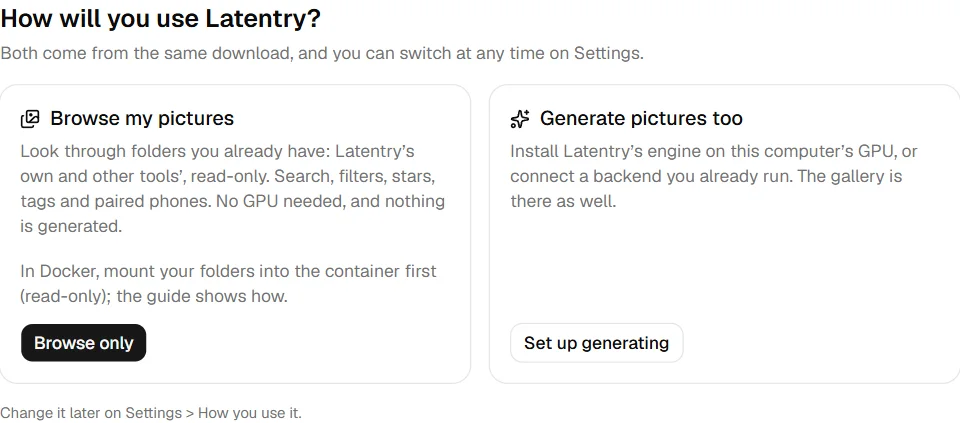
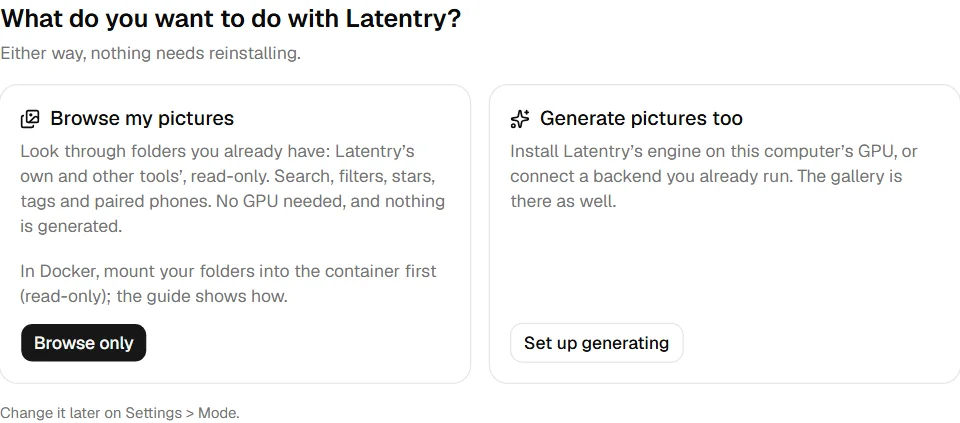
First-run question: clearer wording, a way back to browsing, and SETTINGS_EDIT=off
- The question reads "What do you want to do with Latentry?", and says
  that either answer needs no reinstall. The Settings section is "Mode"
  (ja: 利用モード) instead of "How you use it", which read like a guide.
- The setup help offers "Browse only instead" while no backend is set up,
  so choosing to generate first is not a dead end.
- With SETTINGS_EDIT=off the notice says that only LATENTRY_MODE can make
  Latentry browse-only, instead of pointing at an owner device.

Changed region(s): [[0.0, 0.0, 0.6875, 0.1537], [0.1875, 0.9527, 0.3125, 1.0]]

diff --git a/components/setup-notice.tsx b/components/setup-notice.tsx
@@ -15,56 +15,36 @@ GEN_TOKEN_SDXL=user:password
 GALLERY_SAVE_DIR=./output`
 
 /**
- * On a fresh install (no backend, and no mode chosen on Settings or by
- * LATENTRY_MODE), whether to ask how Latentry is used: `choose` when this
- * client may change settings, `askOwner` when it may not. Null otherwise:
- * then the notice is the usual setup help.
+ * What the notice offers besides the setup help (read on the server by the page):
+ *
+ * - On a fresh install (no mode chosen on Settings or by LATENTRY_MODE):
+ *   `choose` asks how Latentry is used, when this client may change settings;
+ *   `askOwner` says an owner device can choose; `readOnly` says no one can
+ *   (SETTINGS_EDIT=off: only LATENTRY_MODE sets it).
+ * - Once generating was chosen: `switch` offers browsing only instead, when
+ *   this client may change settings and LATENTRY_MODE does not decide.
+ * - Null: the setup help alone.
  */
-export type FirstRun = "choose" | "askOwner" | null
+export type FirstRun = "choose" | "askOwner" | "readOnly" | "switch" | null
 
 /** Shown instead of the form while there is no backend. */
 export function SetupNotice({ firstRun = null }: { firstRun?: FirstRun }) {
   const [chosen, setChosen] = useState(false)
   if (firstRun === "choose" && !chosen) return <FirstRunChoice onGenerate={() => setChosen(true)} />
-  return <GenerateSetup askOwner={firstRun === "askOwner"} />
-}
-
-/** The engine's setup first, then bringing your own backend. */
-function GenerateSetup({ askOwner }: { askOwner: boolean }) {
-  const t = useT()
   return (
-    <Card className="mx-auto max-w-2xl">
-      <CardHeader>
-        <CardTitle>{t("app.setupTitle")}</CardTitle>
-      </CardHeader>
-      <CardContent className="space-y-3 text-sm">
-        {askOwner && <p className="text-muted-foreground">{t("app.firstRun.askOwner")}</p>}
-        <p>{t("app.setupEngine")}</p>
-        <Button asChild>
-          <Link href="/setup">
-            <Cpu className="mr-1.5 h-4 w-4" />
-            {t("app.setupEngineButton")}
-          </Link>
-        </Button>
-        <p className="pt-2">{t("app.setupBody")}</p>
-        <pre className="overflow-x-auto rounded-md bg-muted p-3 font-mono text-xs">{EXAMPLE}</pre>
-        <p className="text-muted-foreground">{t("app.setupRestart")}</p>
-      </CardContent>
-    </Card>
+    <GenerateSetup
+      note={firstRun === "askOwner" || firstRun === "readOnly" ? firstRun : null}
+      offerBrowse={firstRun === "switch" || firstRun === "choose"}
+    />
   )
 }
 
-/**
- * Browse only, or generate too. Either answer is saved as the mode (Settings
- * > How you use it), so the question is asked once; browsing then goes on to
- * the gallery folders.
- */
-function FirstRunChoice({ onGenerate }: { onGenerate: () => void }) {
+/** Saves the mode; browsing only then goes on to the gallery folders. */
+function useSaveMode() {
   const t = useT()
   const router = useRouter()
   const [saving, setSaving] = useState(false)
-
-  async function choose(mode: "gallery" | "full") {
+  async function save(mode: "gallery" | "full"): Promise<boolean> {
     setSaving(true)
     try {
       const response = await fetch("/api/settings", {
@@ -77,11 +57,66 @@ function FirstRunChoice({ onGenerate }: { onGenerate: () => void }) {
         throw new Error(typeof data?.error === "string" ? t.server(data.error) : String(response.status))
       }
       if (mode === "gallery") router.push("/settings#gallery")
-      else onGenerate()
+      else setSaving(false)
+      return true
     } catch (error) {
       toast.error(t("app.firstRun.failed"), { description: error instanceof Error ? error.message : undefined })
       setSaving(false)
+      return false
     }
+  }
+  return { save, saving }
+}
+
+/**
+ * The engine's setup first, then bringing your own backend; below, when
+ * `offerBrowse`, the way to browsing only for whoever changes their mind.
+ */
+function GenerateSetup({ note, offerBrowse }: { note: "askOwner" | "readOnly" | null; offerBrowse: boolean }) {
+  const t = useT()
+  const { save, saving } = useSaveMode()
+  return (
+    <Card className="mx-auto max-w-2xl">
+      <CardHeader>
+        <CardTitle>{t("app.setupTitle")}</CardTitle>
+      </CardHeader>
+      <CardContent className="space-y-3 text-sm">
+        {note && <p className="text-muted-foreground">{t(`app.firstRun.${note}`)}</p>}
+        <p>{t("app.setupEngine")}</p>
+        <Button asChild>
+          <Link href="/setup">
+            <Cpu className="mr-1.5 h-4 w-4" />
+            {t("app.setupEngineButton")}
+          </Link>
+        </Button>
+        <p className="pt-2">{t("app.setupBody")}</p>
+        <pre className="overflow-x-auto rounded-md bg-muted p-3 font-mono text-xs">{EXAMPLE}</pre>
+        <p className="text-muted-foreground">{t("app.setupRestart")}</p>
+        {offerBrowse && (
+          <div className="flex flex-wrap items-center gap-x-3 gap-y-2 border-t pt-3">
+            <p className="text-muted-foreground">{t("app.firstRun.switchText")}</p>
+            <Button variant="outline" size="sm" onClick={() => void save("gallery")} disabled={saving}>
+              <Images className="mr-1.5 h-4 w-4" aria-hidden />
+              {t("app.firstRun.switchButton")}
+            </Button>
+          </div>
+        )}
+      </CardContent>
+    </Card>
+  )
+}
+
+/**
+ * Browse only, or generate too. Either answer is saved as the mode (Settings
+ * > Mode), so the question is asked once; browsing then goes on to
+ * the gallery folders.
+ */
+function FirstRunChoice({ onGenerate }: { onGenerate: () => void }) {
+  const t = useT()
+  const { save, saving } = useSaveMode()
+
+  async function choose(mode: "gallery" | "full") {
+    if ((await save(mode)) && mode === "full") onGenerate()
   }
 
   return (

diff --git a/e2e/first-run.spec.ts b/e2e/first-run.spec.ts
@@ -8,7 +8,7 @@ import { asFreshInstall } from './fresh-install'
 test('a fresh install asks how it is used; "Browse only" turns on gallery-only mode', async ({ page, request }) => {
   await asFreshInstall(request, async () => {
     await page.goto('/')
-    await expect(page.getByRole('heading', { name: 'How will you use Latentry?' })).toBeVisible()
+    await expect(page.getByRole('heading', { name: 'What do you want to do with Latentry?' })).toBeVisible()
     await page.getByRole('button', { name: 'Browse only' }).click()
 
     // On to the gallery folders, in gallery-only mode.
@@ -19,7 +19,7 @@ test('a fresh install asks how it is used; "Browse only" turns on gallery-only m
   })
 })
 
-test('"Set up generating" shows the setup help and is not asked again', async ({ page, request }) => {
+test('"Set up generating" shows the setup help, is not asked again, and can still turn to browsing only', async ({ page, request }) => {
   await asFreshInstall(request, async () => {
     await page.goto('/')
     await page.getByRole('button', { name: 'Set up generating' }).click()
@@ -30,7 +30,12 @@ test('"Set up generating" shows the setup help and is not asked again', async ({
     // Chosen: the next visit goes straight to the setup help.
     await page.reload()
     await expect(page.getByText('Get drawing')).toBeVisible()
-    await expect(page.getByRole('heading', { name: 'How will you use Latentry?' })).toHaveCount(0)
+    await expect(page.getByRole('heading', { name: 'What do you want to do with Latentry?' })).toHaveCount(0)
+
+    // Changed their mind: browsing only is still offered below the setup help.
+    await page.getByRole('button', { name: 'Browse only instead' }).click()
+    await expect(page).toHaveURL(/\/settings#gallery$/)
+    expect((await (await request.get('/api/settings')).json()).mode.chosen).toBe('gallery')
   })
 })
 

diff --git a/app/page.tsx b/app/page.tsx
@@ -2,14 +2,21 @@ import { headers } from "next/headers"
 import { redirect } from "next/navigation"
 import { AppHeader } from "@/components/app-header"
 import { GenerateClient } from "@/components/generate/generate-client"
-import { galleryOnly, modeChosen } from "@/lib/mode"
+import type { FirstRun } from "@/components/setup-notice"
+import { galleryOnly, modeChosen, modeFromEnv } from "@/lib/mode"
 import { editRefusal } from "@/lib/settings/access"
 
 export default async function Home() {
   // Gallery-only mode has no generate page: its home is the gallery.
   if (galleryOnly()) redirect("/gallery")
-  // Not chosen yet: the notice shown without a backend asks how Latentry is used.
-  const firstRun = modeChosen() ? null : editRefusal(await headers()) ? "askOwner" : "choose"
+  // What the notice shown without a backend offers (components/setup-notice.tsx):
+  // not chosen yet, it asks how Latentry is used, or tells a device that may not
+  // change settings who can; chosen, it offers browsing only instead, unless
+  // LATENTRY_MODE decides or this device may not change settings.
+  const refusal = editRefusal(await headers())
+  const firstRun: FirstRun = !modeChosen()
+    ? refusal === "off" ? "readOnly" : refusal ? "askOwner" : "choose"
+    : modeFromEnv() === null && !refusal ? "switch" : null
   return (
     <>
       <AppHeader />

diff --git a/docs/getting-started.md b/docs/getting-started.md
@@ -4,7 +4,7 @@ Latentry runs in Docker, with its settings, pictures, engine and models in
 one data volume. To install it without Docker, see
 [Without Docker](install/native.md).
 
-There are two ways to use it, from the same download:
+There are two ways to use it, with nothing to reinstall between them:
 
 - **[Browse your pictures](#browse-your-pictures)**: look through the
   folders you already have, Latentry's and other tools', read-only. No GPU
@@ -14,7 +14,7 @@ There are two ways to use it, from the same download:
   it.
 
 The first page asks which one, and you can switch at any time on
-**Settings > How you use it**. Starting and pairing are the same for both.
+**Settings > Mode**. Starting and pairing are the same for both.
 
 ## What you need
 
@@ -78,7 +78,7 @@ devices. When it ends, run the command again. See
 
 ## Browse your pictures
 
-On the first page, under **How will you use Latentry?**, choose **Browse
+On the first page, under **What do you want to do with Latentry?**, choose **Browse
 only**.
 
 ![The first-run question: browse your pictures, or generate pictures too](assets/manual-first-run.webp)
@@ -97,7 +97,9 @@ off, and so do their parts of Latentry's API; see
 ## Generate too
 
 On the first page, choose **Set up generating**. It shows how to install
-the engine or add a server you already run.
+the engine or add a server you already run. Changed your mind? Until a
+backend is set up, **Browse only instead** at the bottom of that page
+switches to browsing.
 
 ### Set up the engine
 

diff --git a/docs/guide/gallery-only.md b/docs/guide/gallery-only.md
@@ -6,7 +6,7 @@ and the backends are turned off, and Latentry closes the parts of its API
 that serve them, so they cannot be reached from another tab or device
 either. No GPU is needed.
 
-It is the same Latentry, from the same download. You can turn the mode off
+It is the same Latentry, with nothing to reinstall. You can turn the mode off
 at any time and generate.
 
 ## What you can do
@@ -30,12 +30,13 @@ before stay in the save folder, one click away in the folder list.
 
 ## Turn it on or off
 
-On a fresh install, the first page asks **How will you use Latentry?**:
+On a fresh install, the first page asks **What do you want to do with Latentry?**:
 **Browse only** turns the mode on, **Set up generating** leaves it off. Both
-answers are saved, so it is asked once. A device that may not change
-Settings is not asked.
+answers are saved, so it is asked once; until a backend is set up, the
+setup help that follows still offers **Browse only instead**. A device that
+may not change Settings is not asked.
 
-Afterwards, on **Settings > How you use it**, switch **Gallery-only mode**. It applies
+Afterwards, on **Settings > Mode**, switch **Gallery-only mode**. It applies
 at once: the header loses **Generate**, the home page becomes the gallery,
 and a running engine is stopped. Turning it off starts the engine again if
 it is set to start with Latentry.

diff --git a/docs/guide/settings.md b/docs/guide/settings.md
@@ -8,7 +8,7 @@ from `.env.local`; a section's badge says which it uses ("Set here" or
 "From .env.local"), and **Use .env.local instead** goes back.
 
 The list on the left (above, on a phone) shows one section at a time:
-**How you use it**, **Backends**, **Tagging**, **Gallery**, **Profiles**,
+**Mode**, **Backends**, **Tagging**, **Gallery**, **Profiles**,
 **Model info**, **Wildcards** and **Devices** (in gallery-only mode, only
 those the gallery uses). A dot marks a section with unsaved changes, a red one a section
 with a field to fix. **Save** at the bottom saves every section at once. A
@@ -18,7 +18,7 @@ page opens at the section you chose last in this browser.
 By default, settings can only be changed on the computer running Latentry
 (opened as `http://localhost`); see [Other devices and security](network.md).
 
-## How you use it
+## Mode
 
 **Gallery-only mode** turns Latentry into a gallery only: generating, the
 engine and the backends are off, and their part of the API is closed. The

diff --git a/CHANGELOG.md b/CHANGELOG.md
@@ -5,11 +5,13 @@
 - **A fresh install asks how you will use it**: with no backend and no mode
   chosen, the first page offers **Browse only** (gallery-only mode, on to
   the gallery folders) or **Set up generating** (the usual setup help), and
-  saves the answer. A device that may not change Settings is not asked.
+  saves the answer. Until a backend is set up, the setup help still offers
+  **Browse only instead**. A device that may not change Settings is not
+  asked.
   Getting started, the home page of the manual, Docker, Without Docker and
   the README now show the two ways.
 - **Gallery-only mode**: for looking through your pictures without
-  generating. A switch on **Settings > How you use it** (or
+  generating. A switch on **Settings > Mode** (or
   `LATENTRY_MODE=gallery`) makes the gallery the home page, takes
   **Generate** out of the header and the viewer, stops the engine, contacts
   no backend, and closes the API for generating, the engine and model

diff --git a/docs/reference/troubleshooting.md b/docs/reference/troubleshooting.md
@@ -72,7 +72,7 @@ listed. Point the models folder at the right place on Setup.
 **There is no Generate in the header, and the home page is the gallery.**
 Latentry is in [gallery-only mode](../guide/gallery-only.md): it was chosen
 as **Browse only** on the first page, or switched on in Settings. Turn
-**Gallery-only mode** off on **Settings > How you use it** (on an
+**Gallery-only mode** off on **Settings > Mode** (on an
 [owner device](../guide/owner-device.md); see
 [Turn it on or off](../guide/gallery-only.md#turn-it-on-or-off)). If the
 switch cannot be changed and says **Set by LATENTRY_MODE=gallery in the

diff --git a/README.md b/README.md
@@ -141,7 +141,7 @@ type the code on **Pair this device**, and your browser becomes the
 address is trusted as "this computer", so every browser pairs, yours
 included ([why](https://33rd-kk.github.io/latentry/install/docker/#why-your-browser-has-to-pair)).
 
-The first page then asks how you will use Latentry, from the same download:
+The first page then asks what you want to do with Latentry (nothing needs reinstalling to switch later):
 
 - **Browse only**: look through the folders you already have, read-only,
   with no GPU ([gallery-only mode](https://33rd-kk.github.io/latentry/guide/gallery-only/)).

diff --git a/docs/index.md b/docs/index.md
@@ -15,7 +15,7 @@ it again by what it shows or how it was made.
 
 ## Two ways to use it
 
-The same download, and you can switch at any time:
+The same install, and you can switch at any time:
 
 - **Browse your pictures**: Latentry's gallery over the folders you already
   have, read-only, with no GPU and no backend
